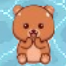
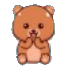
Make end tiles have the background of ground

diff --git a/js/game.js b/js/game.js
@@ -1,4 +1,4 @@
-import { loadImage } from './utils.js';
+import { loadEndTileImage, loadImage } from './utils.js';
 
 export const TILE_SIZE = 32;
 
@@ -15,6 +15,7 @@ export class Game {
         this.map = map;
         this.tileMapping = season.tileMapping;
         this.walkableTiles = season.walkableTiles;
+        this.defaultTile = season.defaultTile;
 
         this.tileImages = {};
 
@@ -34,6 +35,15 @@ export class Game {
             const path = this.tileMapping[tile];
             if (!path) {
                 throw new Error(`Tile ${tile} has no image in this season's tile mapping.`);
+            }
+
+            if (tile === 98) {
+                const groundPath = this.tileMapping[this.defaultTile];
+                if (!groundPath) {
+                    throw new Error(`Default ground tile ${this.defaultTile} has no image in this season's tile mapping.`);
+                }
+                this.tileImages[tile] = await loadEndTileImage(groundPath, path, this.tileSize);
+                continue;
             }
 
             const img = await loadImage(path);

diff --git a/js/edit-map.js b/js/edit-map.js
@@ -1,5 +1,5 @@
 // js/edit-map.js
-import { loadImage, parseMapText, serializeMap, validateMapMarkers } from './utils.js';
+import { loadEndTileImage, loadImage, parseMapText, serializeMap, validateMapMarkers } from './utils.js';
 import { calculateViewTileCount, TILE_SIZE } from './game.js';
 import { updateCursor } from './cursor.js';
 import { createTool } from './createTool.js';
@@ -135,10 +135,12 @@ async function loadPalette() {
     const container = document.createElement("div");
     container.className = "tileOption";
     container.dataset.tile = num;
-    const img = await loadImage(path);
+    const img = num === "98"
+      ? await loadEndTileImage(season.tileMapping[season.defaultTile], path, TILE_SIZE)
+      : await loadImage(path);
     tileImages[num] = img;
     const tileImg = document.createElement("img");
-    tileImg.src = path;
+    tileImg.src = num === "98" ? img.toDataURL() : path;
     tileImg.width = TILE_SIZE;
     tileImg.height = TILE_SIZE;
     const label = document.createElement("p");

diff --git a/js/create-map.js b/js/create-map.js
@@ -1,5 +1,5 @@
 // js/map-editor.js
-import { loadImage, serializeMap, validateMapMarkers } from './utils.js';
+import { loadEndTileImage, loadImage, serializeMap, validateMapMarkers } from './utils.js';
 import { calculateViewTileCount, TILE_SIZE } from './game.js';
 import { updateCursor } from './cursor.js';
 import { createTool } from './createTool.js';
@@ -141,10 +141,12 @@ async function loadPalette() {
     const container = document.createElement("div");
     container.className = "tileOption";
     container.dataset.tile = num;
-    const img = await loadImage(path);
+    const img = num === "98"
+      ? await loadEndTileImage(season.tileMapping[season.defaultTile], path, TILE_SIZE)
+      : await loadImage(path);
     tileImages[num] = img;
     const tileImg = document.createElement("img");
-    tileImg.src = path;
+    tileImg.src = num === "98" ? img.toDataURL() : path;
     tileImg.width = TILE_SIZE;
     tileImg.height = TILE_SIZE;
     const label = document.createElement("p");

diff --git a/js/utils.js b/js/utils.js
@@ -8,6 +8,25 @@ export function loadImage(src) {
   });
 }
 
+export async function loadEndTileImage(groundSrc, characterSrc, size) {
+  const [ground, character] = await Promise.all([
+    loadImage(groundSrc),
+    loadImage(characterSrc),
+  ]);
+  const canvas = document.createElement('canvas');
+  canvas.width = size;
+  canvas.height = size;
+  const ctx = canvas.getContext('2d');
+  if (!ctx) {
+    throw new Error('Unable to create canvas context for end tile.');
+  }
+
+  ctx.imageSmoothingEnabled = false;
+  ctx.drawImage(ground, 0, 0, size, size);
+  ctx.drawImage(character, 0, 0, size, size);
+  return canvas;
+}
+
 //Resize image to new size using canvas
 export function resizeImage(img, newSize) {
   const canvas = document.createElement('canvas');

diff --git a/README.md b/README.md
@@ -75,7 +75,7 @@ The first command previews which files would change. The second overwrites PNGs 
 
 Player animation uses **12 transparent PNGs**: three frames for each direction. Filenames and direction words must match the list above exactly. Use square images designed for a single tile (32 × 32 pixels is recommended); the game scales them to the tile size.
 
-The end character can have one or more transparent, square PNG frames. List their paths in `enderSprites` in animation order; the filenames are otherwise up to you. Tile images should also be square PNGs and are scaled to 32 × 32 pixels.
+The end character can have one or more transparent, square PNG frames. List their paths in `enderSprites` in animation order; the filenames are otherwise up to you. Tile ID `98` is rendered over that season's default ground tile, so keep end-character backgrounds transparent to let the ground show through. Tile images should also be square PNGs and are scaled to 32 × 32 pixels.
 
 Example season configuration:
 
